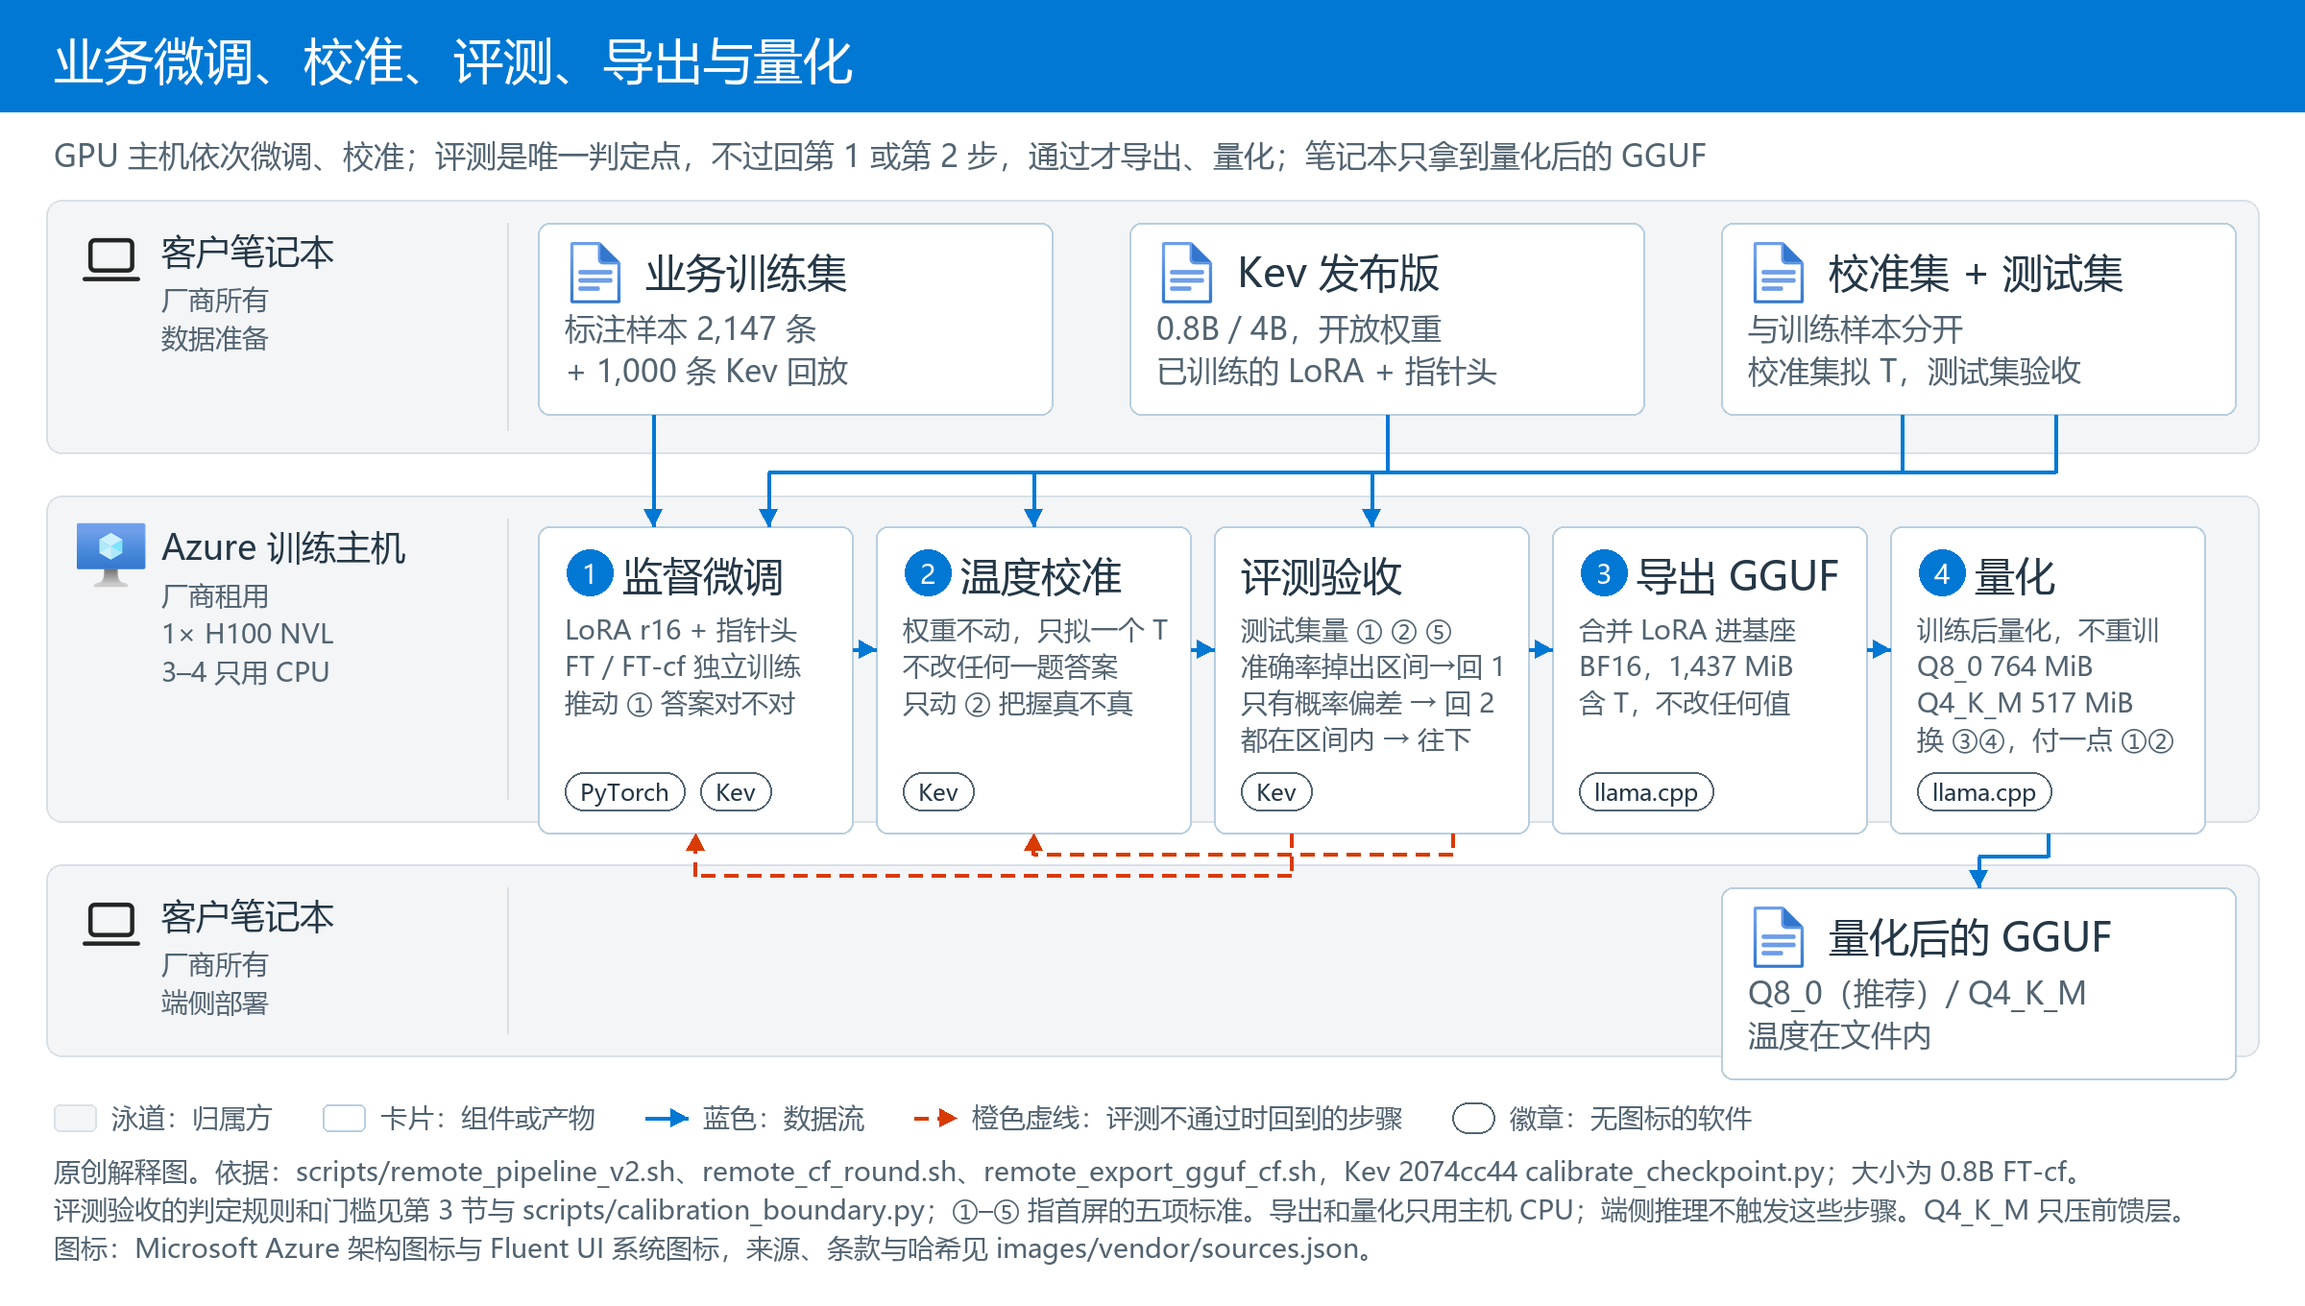
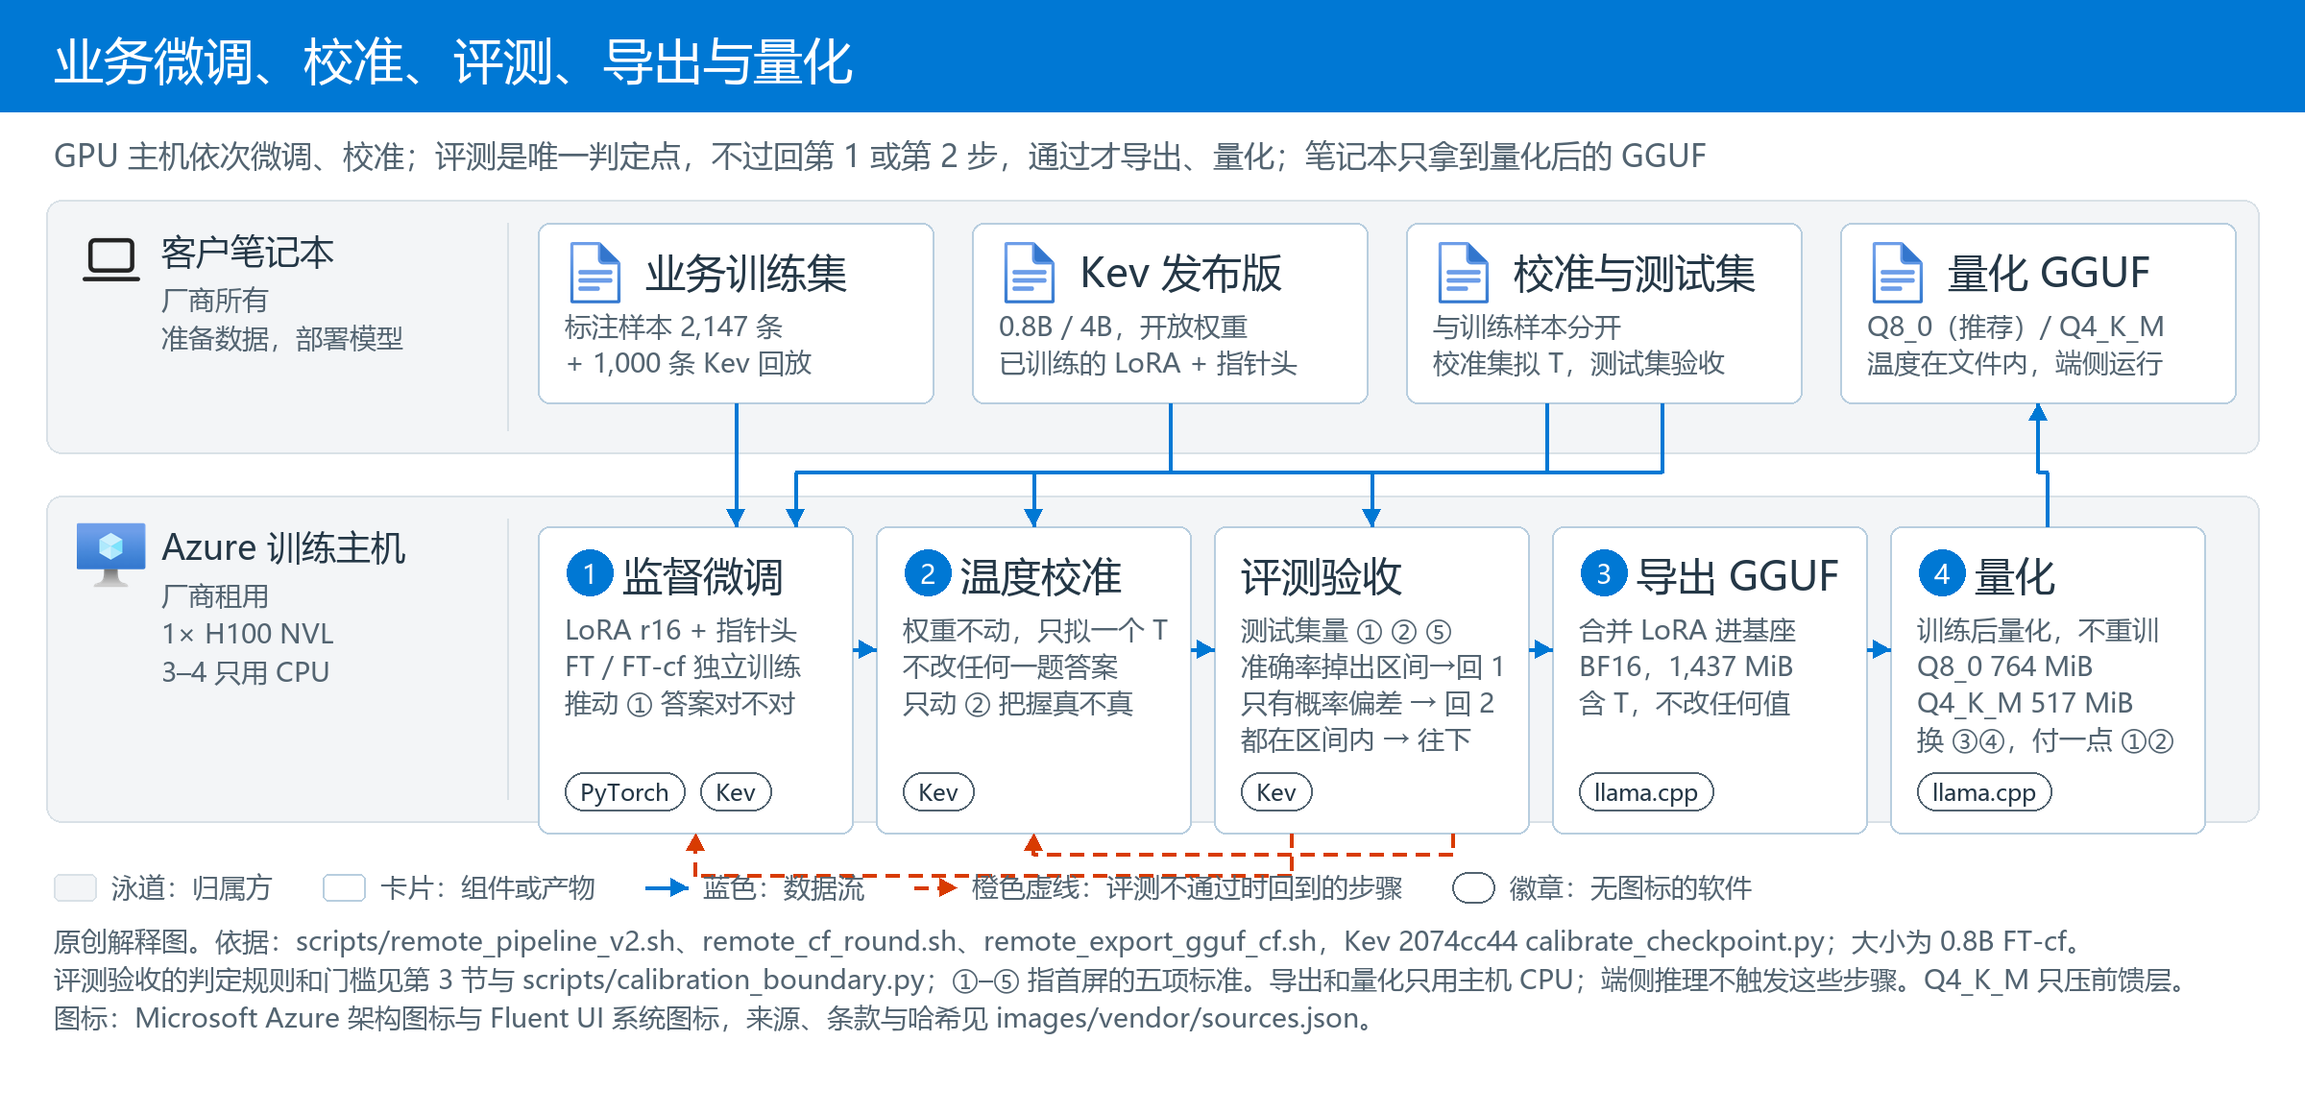
AIPC-Decision-Model-Finetune: training diagram shows one customer laptop, not two
- images/training(-en).png: the two 'Customer laptop' lanes were one machine drawn twice. Now a single
  top lane holds the three input cards and, at its right end, the quantized GGUF the laptop receives;
  the quantize -> GGUF arrow runs upward. The bottom lane is gone; the canvas is 580 px (2400x1160).
- Steps, evaluation gate, dashed return paths, legend and footnotes unchanged. README alt text (CN/EN)
  now says two ownership lanes. Other diagrams byte-identical.

diff --git a/Deep-Learning/AIPC-Decision-Model-Finetune/scripts/render_diagrams.py b/Deep-Learning/AIPC-Decision-Model-Finetune/scripts/render_diagrams.py
@@ -22,7 +22,7 @@ CARD_LINE = "#B8CEDF"
 SCORE_GREY = "#687C8A"
 READ = "#D83B01"   # Microsoft Office orange accent, used only for the pointer head's readout positions
 WIDTH = 1200       # layout coordinates; the README displays every diagram at 900 px
-HEIGHT = 680       # one shared height for the three diagrams
+HEIGHT = 680       # shared height of the inference, validation and decision diagrams; training() uses 580 (two lanes)
 SCALE = 2          # raster at twice the layout size so labels stay crisp at the display width
 LANE_RIGHT = WIDTH - 24
 OWNER_DIVIDER = 264   # owner column 24..264, content from CARD_LEFT
@@ -190,12 +190,15 @@ def training(font_path, language="zh"):
     label = lambda chinese, english: english if language == "en" else chinese
     d = Diagram(label("业务微调、校准、评测、导出与量化", "Business fine-tuning, calibration, evaluation, export and quantization"),
                 label("GPU 主机依次微调、校准；评测是唯一判定点，不过回第 1 或第 2 步，通过才导出、量化；笔记本只拿到量化后的 GGUF",
-                      "GPU host: fine-tune, calibrate, evaluate (the only pass/fail point; failures return to step 1 or 2), export, quantize; the laptop gets the quantized GGUF"), font_path)
-    c1, c2, c3 = CARD_LEFT, CARD_LEFT + CARD_STEP, CARD_LEFT + 2 * CARD_STEP
-    d.lane(104, 236, label("客户笔记本", "Customer laptop"), label("厂商所有\n数据准备", "Vendor-owned\nData preparation"), icon="laptop")
-    d.card(c1, 116, label("业务训练集", "Training set"), label("标注样本 2,147 条\n+ 1,000 条 Kev 回放", "2,147 labeled records\n+ 1,000 Kev replay records"), icon="file")
-    d.card(c2, 116, label("Kev 发布版", "Released Kev"), label("0.8B / 4B，开放权重\n已训练的 LoRA + 指针头", "0.8B / 4B, open weights\nTrained LoRA + pointer head"), icon="file")
-    d.card(c3, 116, label("校准集 + 测试集", "Calibration + test"), label("与训练样本分开\n校准集拟 T，测试集验收", "Separate from training\nOne fits T, one judges"), icon="file")
+                      "GPU host: fine-tune, calibrate, evaluate (the only pass/fail point; failures return to step 1 or 2), export, quantize; the laptop gets the quantized GGUF"), font_path, height=580)
+    # one laptop lane: three input cards and, at the right end, the file the laptop receives back (same machine, both roles)
+    cw, cg = 206, 20   # four equal cards fill CARD_LEFT..LANE_RIGHT-16 (280..1160)
+    c1, c2, c3, c4 = (CARD_LEFT + index * (cw + cg) for index in range(4))
+    d.lane(104, 236, label("客户笔记本", "Customer laptop"), label("厂商所有\n准备数据，部署模型", "Vendor-owned\nPrepares data, runs it"), icon="laptop")
+    d.card(c1, 116, label("业务训练集", "Training set"), label("标注样本 2,147 条\n+ 1,000 条 Kev 回放", "2,147 labeled records\n+ 1,000 Kev replay"), icon="file", width=cw, compact=True)
+    d.card(c2, 116, label("Kev 发布版", "Released Kev"), label("0.8B / 4B，开放权重\n已训练的 LoRA + 指针头", "0.8B / 4B, open weights\nTrained LoRA + head"), icon="file", width=cw, compact=True)
+    d.card(c3, 116, label("校准与测试集", "Calib + test"), label("与训练样本分开\n校准集拟 T，测试集验收", "Separate from training\nOne fits T, one judges"), icon="file", width=cw, compact=True)
+    d.card(c4, 116, label("量化 GGUF", "Quantized"), label("Q8_0（推荐）/ Q4_K_M\n温度在文件内，端侧运行", "GGUF Q8_0 / Q4_K_M\nT inside; runs on device"), icon="file", width=cw, compact=True)
     # five equal cards in the host lane: 5 x 164 px with 12 px gaps fill CARD_LEFT..LANE_RIGHT-16 (280..1160); compact detail font
     sw, sg, sh = 164, 12, 160   # equal card height: four compact detail lines + one badge row
     s1, s2, s3, s4, s5 = (CARD_LEFT + index * (sw + sg) for index in range(5))
@@ -205,25 +208,23 @@ def training(font_path, language="zh"):
     d.card(s3, 274, label("评测验收", "Evaluate"), label("测试集量 ① ② ⑤\n准确率掉出区间→回 1\n只有概率偏差 → 回 2\n都在区间内 → 往下", "Test set: ① ② ⑤\nAccuracy out of CI: 1\nOnly ECE off: 2\nBoth inside: go on"), width=sw, height=sh, badges=("Kev",), compact=True)
     d.card(s4, 274, label("导出 GGUF", "Export"), label("合并 LoRA 进基座\nBF16，1,437 MiB\n含 T，不改任何值", "GGUF, LoRA merged\nBF16, 1,437 MiB\nWith T, unchanged"), step="3", width=sw, height=sh, badges=("llama.cpp",), compact=True)
     d.card(s5, 274, label("量化", "Quantize"), label("训练后量化，不重训\nQ8_0 764 MiB\nQ4_K_M 517 MiB\n换 ③④，付一点 ①②", "PTQ, no retraining\nQ8_0 764 MiB\nQ4_K_M 517 MiB\nBuys ③④, costs ①②"), step="4", width=sw, height=sh, badges=("llama.cpp",), compact=True)
-    d.lane(450, 550, label("客户笔记本", "Customer laptop"), label("厂商所有\n端侧部署", "Vendor-owned\nDevice deployment"), icon="laptop")
-    d.card(c3, 462, label("量化后的 GGUF", "Quantized GGUF"), label("Q8_0（推荐）/ Q4_K_M\n温度在文件内", "Q8_0 (recommended) / Q4_K_M\nT inside the file"), icon="file")
-    mid2, mid3 = c2 + CARD_WIDTH / 2, c3 + CARD_WIDTH / 2
-    d.arrow([(c1 + 60, 216), (c1 + 60, 274)])                                      # training set -> fine-tuning
-    d.arrow([(mid2, 216), (mid2, 246), (c1 + 120, 246), (c1 + 120, 274)])          # released Kev -> fine-tuning (--init_from)
-    d.arrow([(mid3 - 40, 216), (mid3 - 40, 246), (s2 + sw / 2, 246), (s2 + sw / 2, 274)])   # calibration set -> calibration
-    d.arrow([(mid3 + 40, 216), (mid3 + 40, 246), (s3 + sw / 2, 246), (s3 + sw / 2, 274)])   # test set -> evaluation gate
+    bottom = 274 + sh
+    cards_bottom = 116 + 56 + 19 * 2   # compact two-line data cards end here (card() height rule)
+    d.arrow([(c1 + cw / 2, cards_bottom), (c1 + cw / 2, 274)])                                          # training set -> fine-tuning
+    d.arrow([(c2 + cw / 2, cards_bottom), (c2 + cw / 2, 246), (s1 + sw - 30, 246), (s1 + sw - 30, 274)])    # released Kev -> fine-tuning (--init_from)
+    d.arrow([(c3 + cw / 2 - 30, cards_bottom), (c3 + cw / 2 - 30, 246), (s2 + sw / 2, 246), (s2 + sw / 2, 274)])   # calibration set -> calibration
+    d.arrow([(c3 + cw / 2 + 30, cards_bottom), (c3 + cw / 2 + 30, 246), (s3 + sw / 2, 246), (s3 + sw / 2, 274)])   # test set -> evaluation gate
     d.arrow([(s1 + sw, 338), (s2, 338)])
     d.arrow([(s2 + sw, 338), (s3, 338)])
     d.arrow([(s3 + sw, 338), (s4, 338)])
     d.arrow([(s4 + sw, 338), (s5, 338)])
-    bottom = 274 + sh
     d.arrow([(s3 + 40, bottom), (s3 + 40, bottom + 22), (s1 + sw / 2, bottom + 22), (s1 + sw / 2, bottom)], color=READ, dashed=True)   # accuracy fell -> retrain
     d.arrow([(s3 + sw - 40, bottom), (s3 + sw - 40, bottom + 11), (s2 + sw / 2, bottom + 11), (s2 + sw / 2, bottom)], color=READ, dashed=True)   # probabilities off -> refit T
-    d.arrow([(s5 + sw / 2, bottom), (s5 + sw / 2, 446), (mid3, 446), (mid3, 462)])  # quantized file -> laptop
-    d.legend(572, [("lane", label("泳道：归属方", "Lane: owner")), ("card", label("卡片：组件或产物", "Card: component or artifact")),
+    d.arrow([(s5 + sw / 2, 274), (s5 + sw / 2, 246), (c4 + cw / 2, 246), (c4 + cw / 2, cards_bottom)])      # quantized file -> back to the laptop
+    d.legend(452, [("lane", label("泳道：归属方", "Lane: owner")), ("card", label("卡片：组件或产物", "Card: component or artifact")),
                    ("arrow", label("蓝色：数据流", "Blue: data flow")), ("back", label("橙色虚线：评测不通过时回到的步骤", "Orange dashed: return after failed evaluation")),
                    ("badge", label("徽章：无图标的软件", "Badge: software without icon"))])
-    d.footnote(600, label("原创解释图。依据：scripts/remote_pipeline_v2.sh、remote_cf_round.sh、remote_export_gguf_cf.sh，Kev 2074cc44 calibrate_checkpoint.py；大小为 0.8B FT-cf。",
+    d.footnote(480, label("原创解释图。依据：scripts/remote_pipeline_v2.sh、remote_cf_round.sh、remote_export_gguf_cf.sh，Kev 2074cc44 calibrate_checkpoint.py；大小为 0.8B FT-cf。",
                           "Original explanatory diagram. Sources: scripts/remote_pipeline_v2.sh, remote_cf_round.sh, remote_export_gguf_cf.sh; Kev 2074cc44 calibrate_checkpoint.py. Sizes: 0.8B."),
                label("评测验收的判定规则和门槛见第 3 节与 scripts/calibration_boundary.py；①–⑤ 指首屏的五项标准。导出和量化只用主机 CPU；端侧推理不触发这些步骤。Q4_K_M 只压前馈层。",
                      "Gate rule: section 3, scripts/calibration_boundary.py; ①–⑤ = the five first-screen criteria. Export and PTQ use the host CPU only; the device never runs them."),
@@ -543,7 +544,7 @@ def main():
               "selection": "Upstream model/accuracy and playground figures do not describe this project's training, export and laptop validation paths.",
               "visual_scope": "Azure Architecture Center style: blue title bar, grey ownership lanes, white component cards, legend and source footnote; "
                               "official Microsoft icons identify actual hosts and file artifacts, text badges identify PyTorch, Kev and llama.cpp, which have no ledgered icon; "
-                              f"rendered at {SCALE}x the {WIDTH}x{HEIGHT} layout.",
+                              f"rendered at {SCALE}x the {WIDTH}x{HEIGHT} layout (training: {WIDTH}x580).",
               "icon_sources": "vendor/sources.json",
               "assets": assets}
     (arguments.out / "provenance.json").write_text(json.dumps(ledger, ensure_ascii=False, indent=2) + "\n", encoding="utf-8")

diff --git a/Deep-Learning/AIPC-Decision-Model-Finetune/README.md b/Deep-Learning/AIPC-Decision-Model-Finetune/README.md
@@ -28,7 +28,7 @@ Four recipes are compared throughout; their names are fixed here. **B0** is the 
 
 Data preparation scripts run on the laptop. Large models A and B only help write simulated customer messages; business-policy code computes the labels. Neither generator is the Kev model being fine-tuned, and neither participates in subsequent device inference. The GPU host runs four steps in order: (1) supervised fine-tuning, which trains only the LoRA adapters and the pointer head; (2) temperature calibration, which leaves the weights unchanged and fits one scalar; (3) GGUF export, which merges the LoRA into the base in BF16; (4) quantization to Q8_0 or Q4_K_M. Steps 3 and 4 use only that host's CPU. Between (2) and (3) sits one evaluation gate, the pipeline's only pass/fail point: it measures accuracy and probability error on the test set; accuracy outside its interval goes back to step (1) for more data and retraining, probability error alone goes back to step (2) to refit T, and only when both are inside does the pipeline continue (rule and thresholds in [section 3](#3-calibration-correct-ranking-does-not-guarantee-reliable-probabilities)). Calibration itself has no pass/fail; it always produces a T. The product is one quantized GGUF file, the single-file model format used by llama.cpp, holding weights, tokenizer, pointer head and calibration temperature together; everything that runs on the laptop and every device figure below uses this quantized file.
 
-<img src="images/training-en.png" width="900" alt="Fine-tuning, calibration, evaluation, export and quantization: labeled business data and released Kev enter an Azure GPU training host; four numbered steps are supervised fine-tuning, temperature calibration, BF16 GGUF export and quantization to Q8_0 / Q4_K_M; between calibration and export sits an unnumbered evaluation-gate card whose two orange dashed exits return to fine-tuning (accuracy out of its interval) and to calibration (probabilities off only); the quantized GGUF goes to the customer laptop; three ownership lanes, a legend and source footnote.">
+<img src="images/training-en.png" width="900" alt="Fine-tuning, calibration, evaluation, export and quantization: labeled business data and released Kev enter an Azure GPU training host; four numbered steps are supervised fine-tuning, temperature calibration, BF16 GGUF export and quantization to Q8_0 / Q4_K_M; between calibration and export sits an unnumbered evaluation-gate card whose two orange dashed exits return to fine-tuning (accuracy out of its interval) and to calibration (probabilities off only); the quantized GGUF returns to the same customer laptop; two ownership lanes (customer laptop, Azure training host), a legend and source footnote.">
 
 *Original explanatory diagram. Training data updates model parameters; a separate calibration set fits the probability temperature, the scaling factor applied when raw model scores become probabilities, explained in [section 3](#3-calibration-correct-ranking-does-not-guarantee-reliable-probabilities). The evaluation gate is the only pass/fail point; ① ② ⑤ on its card are [the five criteria on the first screen](#criteria). Quantization is post-training and needs no retraining; the effect of each variant is in [section 5](#5-laptop-inference-engine). The laptop receives the quantized GGUF file. Sources: [FT pipeline](scripts/remote_pipeline_v2.sh), [FT-cf pipeline](scripts/remote_cf_round.sh), [export and quantization script](scripts/remote_export_gguf_cf.sh). Official Microsoft icon sources and usage terms are recorded in [the icon ledger](images/vendor/sources.json).*
 

diff --git a/Deep-Learning/AIPC-Decision-Model-Finetune/README_CN.md b/Deep-Learning/AIPC-Decision-Model-Finetune/README_CN.md
@@ -28,7 +28,7 @@
 
 数据准备脚本在笔记本上运行。大模型 A/B 只帮助生成模拟原话，标签由业务规则代码计算；它们既不是被微调的 Kev，也不参与后续端侧推理。GPU 主机上依次做四步：① 监督微调（只训 LoRA 和指针头）；② 温度校准（权重不动，只拟合一个标量）；③ 导出 GGUF（把 LoRA 合并进基座，BF16）；④ 量化成 Q8_0 或 Q4_K_M。后两步只用该主机的 CPU。② 和 ③ 之间有一次评测验收，它是整条流水线唯一的判定点：在测试集上量准确率和概率偏差，准确率掉出区间回第 ① 步补数据重训，只有概率偏差回第 ② 步重拟 T，都在区间内才往下走（规则和门槛见[第 3 节](#3-校准答案排名正确概率仍可能不准)）。校准本身没有“通过 / 不通过”，它永远产出一个 T。产物是一个量化后的 GGUF 文件——llama.cpp 使用的单文件模型格式，权重、分词器、指针头和校准温度都在同一个文件里；笔记本上跑的、后面所有端侧数字测的，都是这个量化后的文件。
 
-<img src="images/training.png" width="900" alt="微调、校准、评测、导出与量化：带标签业务数据和 Kev 发布版进入 Azure GPU 训练主机，四个编号步骤依次是监督微调、温度校准、导出 BF16 GGUF、量化成 Q8_0 / Q4_K_M；校准与导出之间是无编号的评测验收卡，两条橙色虚线分别回到微调（准确率掉出区间）和校准（只有概率偏差）；量化后的 GGUF 交给客户笔记本；三条所有权泳道、图例和来源脚注。">
+<img src="images/training.png" width="900" alt="微调、校准、评测、导出与量化：带标签业务数据和 Kev 发布版进入 Azure GPU 训练主机，四个编号步骤依次是监督微调、温度校准、导出 BF16 GGUF、量化成 Q8_0 / Q4_K_M；校准与导出之间是无编号的评测验收卡，两条橙色虚线分别回到微调（准确率掉出区间）和校准（只有概率偏差）；量化后的 GGUF 回到同一台客户笔记本；两条所有权泳道（客户笔记本、Azure 训练主机）、图例和来源脚注。">
 
 *原创解释图。训练集更新参数，独立校准集拟合概率的温度（把模型原始分数变成概率时的缩放系数，详见[第 3 节](#3-校准答案排名正确概率仍可能不准)）；评测验收是唯一的判定点，卡上的 ①②⑤ 指[首屏的五项标准](#criteria)；量化是训练后量化，不重训，各版本的效果在[第 5 节](#5-笔记本端推理引擎)；笔记本最终接收的是量化后的 GGUF 模型文件。依据：[FT 流水线](scripts/remote_pipeline_v2.sh)、[FT-cf 流水线](scripts/remote_cf_round.sh)、[导出与量化脚本](scripts/remote_export_gguf_cf.sh)。*
 
